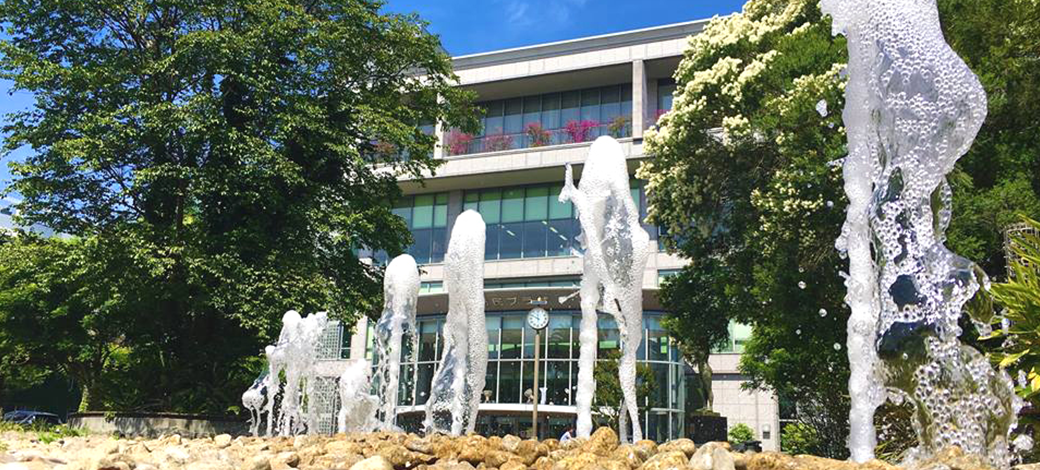
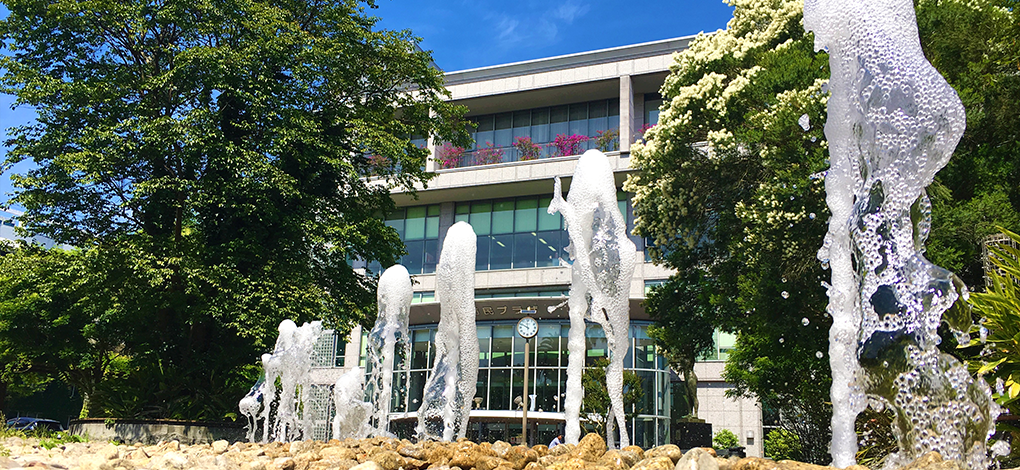
slide photo change & add
slidephoto change & add
slide js change

diff --git a/js/script.js b/js/script.js
@@ -1,7 +1,7 @@
 //slider pro
 $(document).ready(function(){
     $( '#slider-main' ).sliderPro({
-    width: 1040 ,
+    width: 1020 ,
     height: 470 ,
     arrows: true, //矢印の有無
     buttons: true, //ページャーの有無
